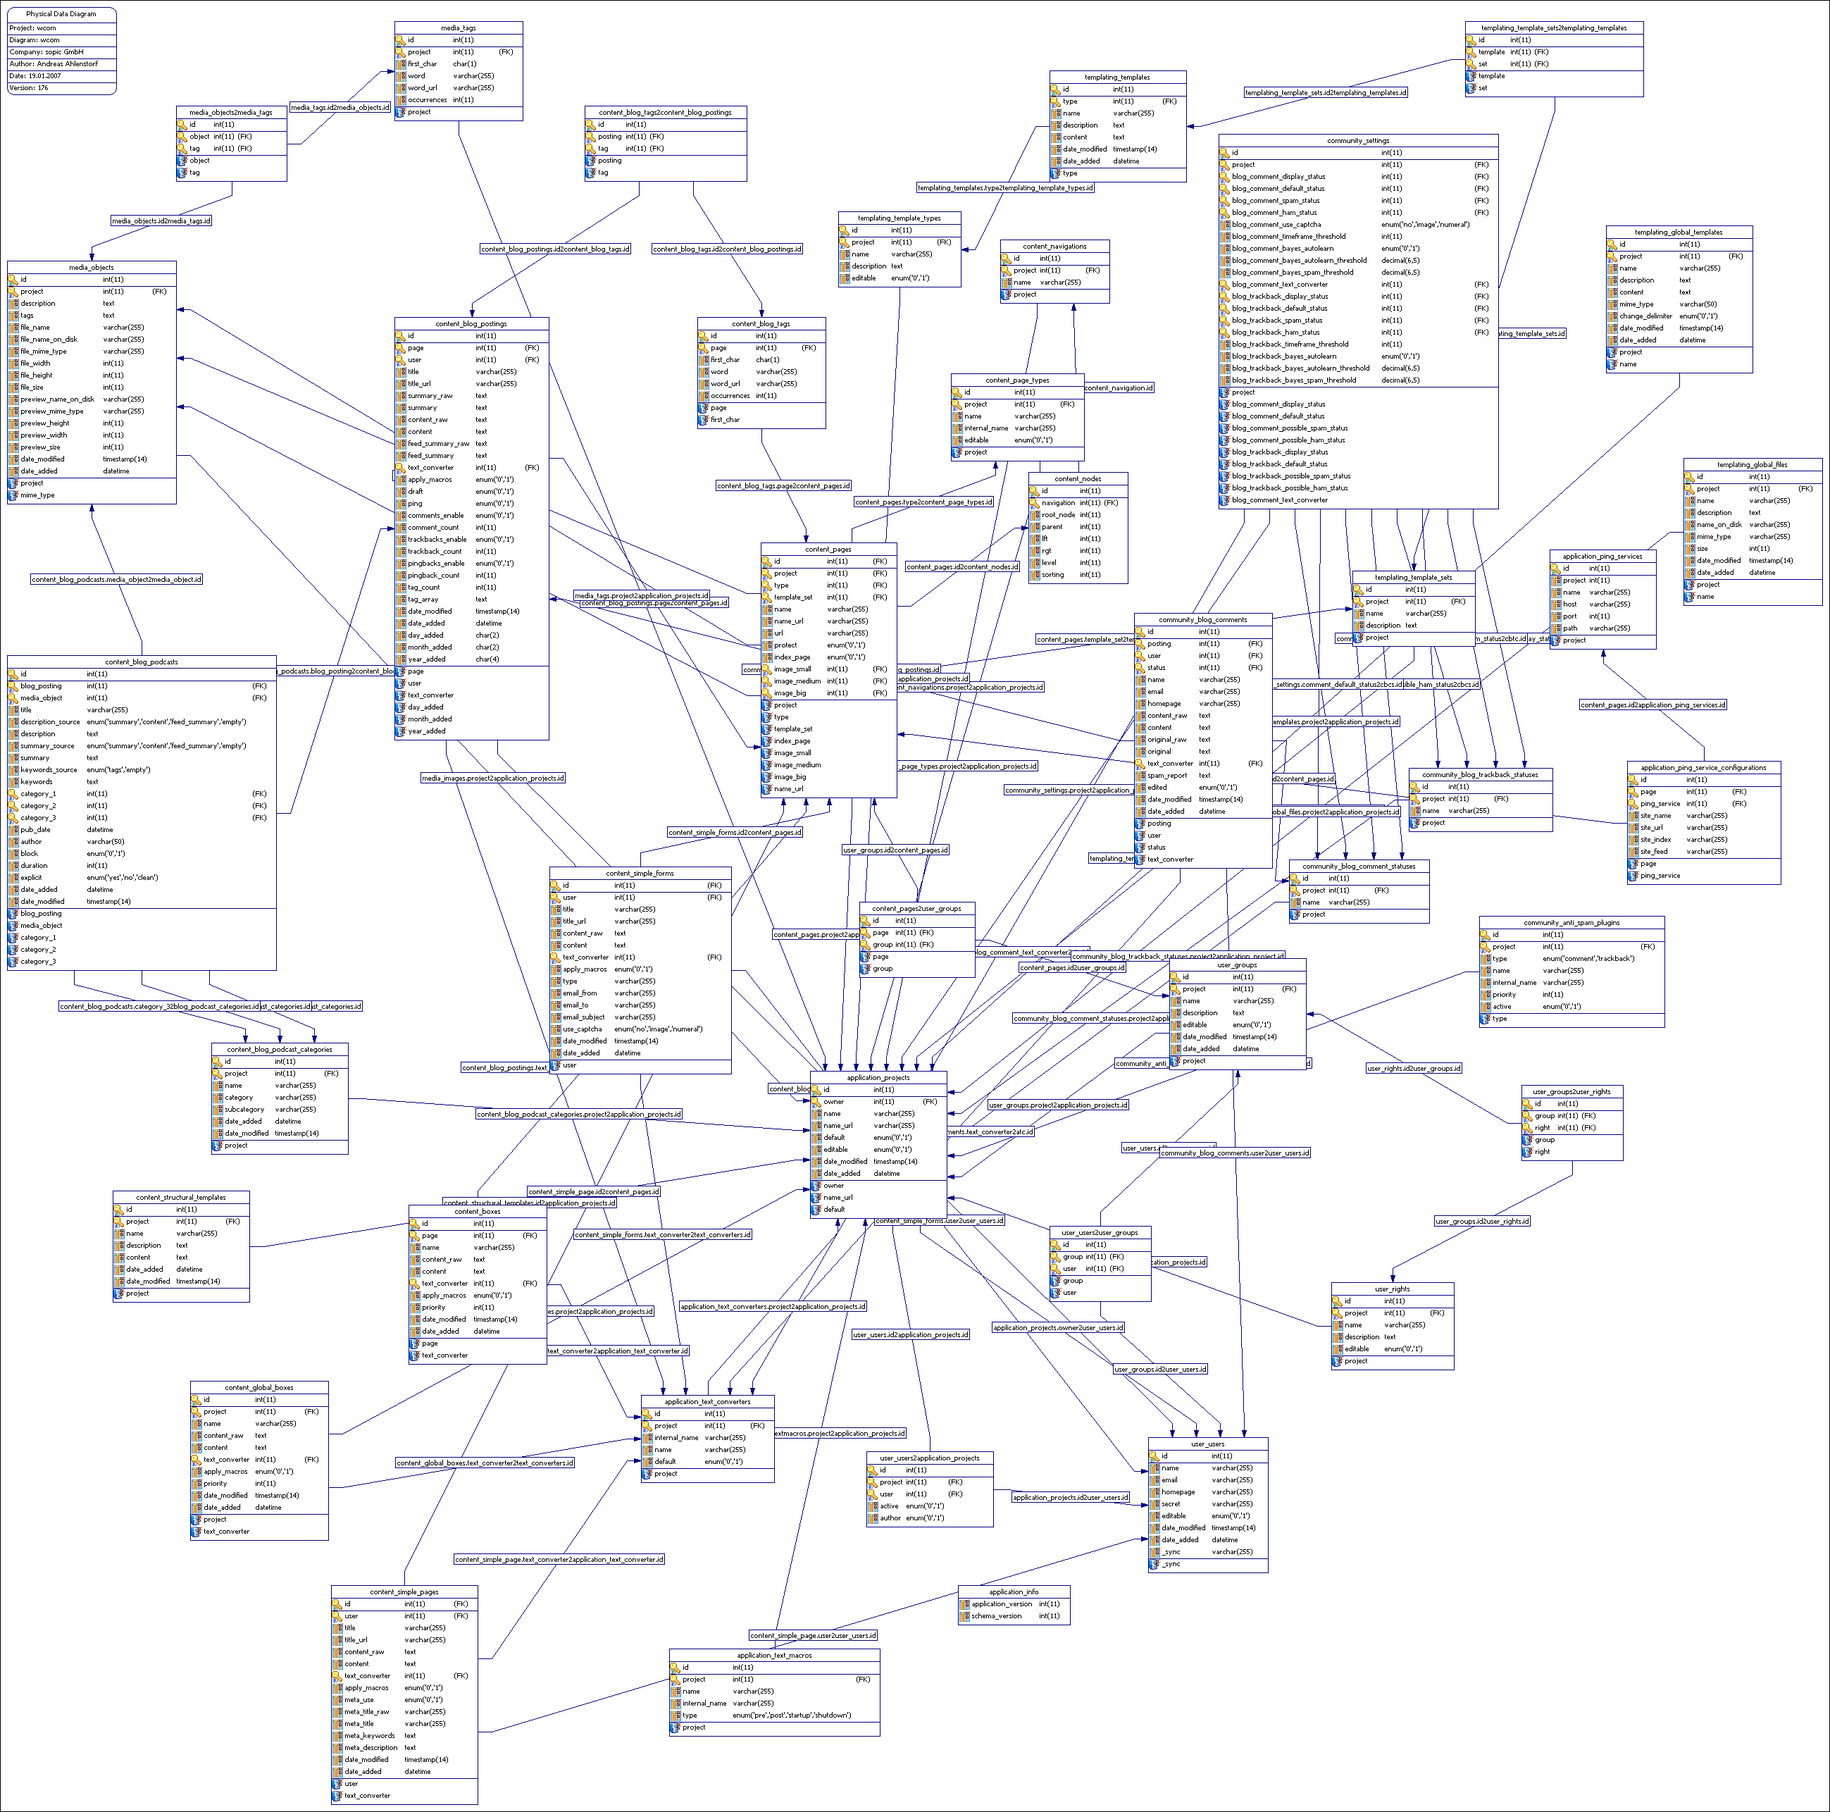
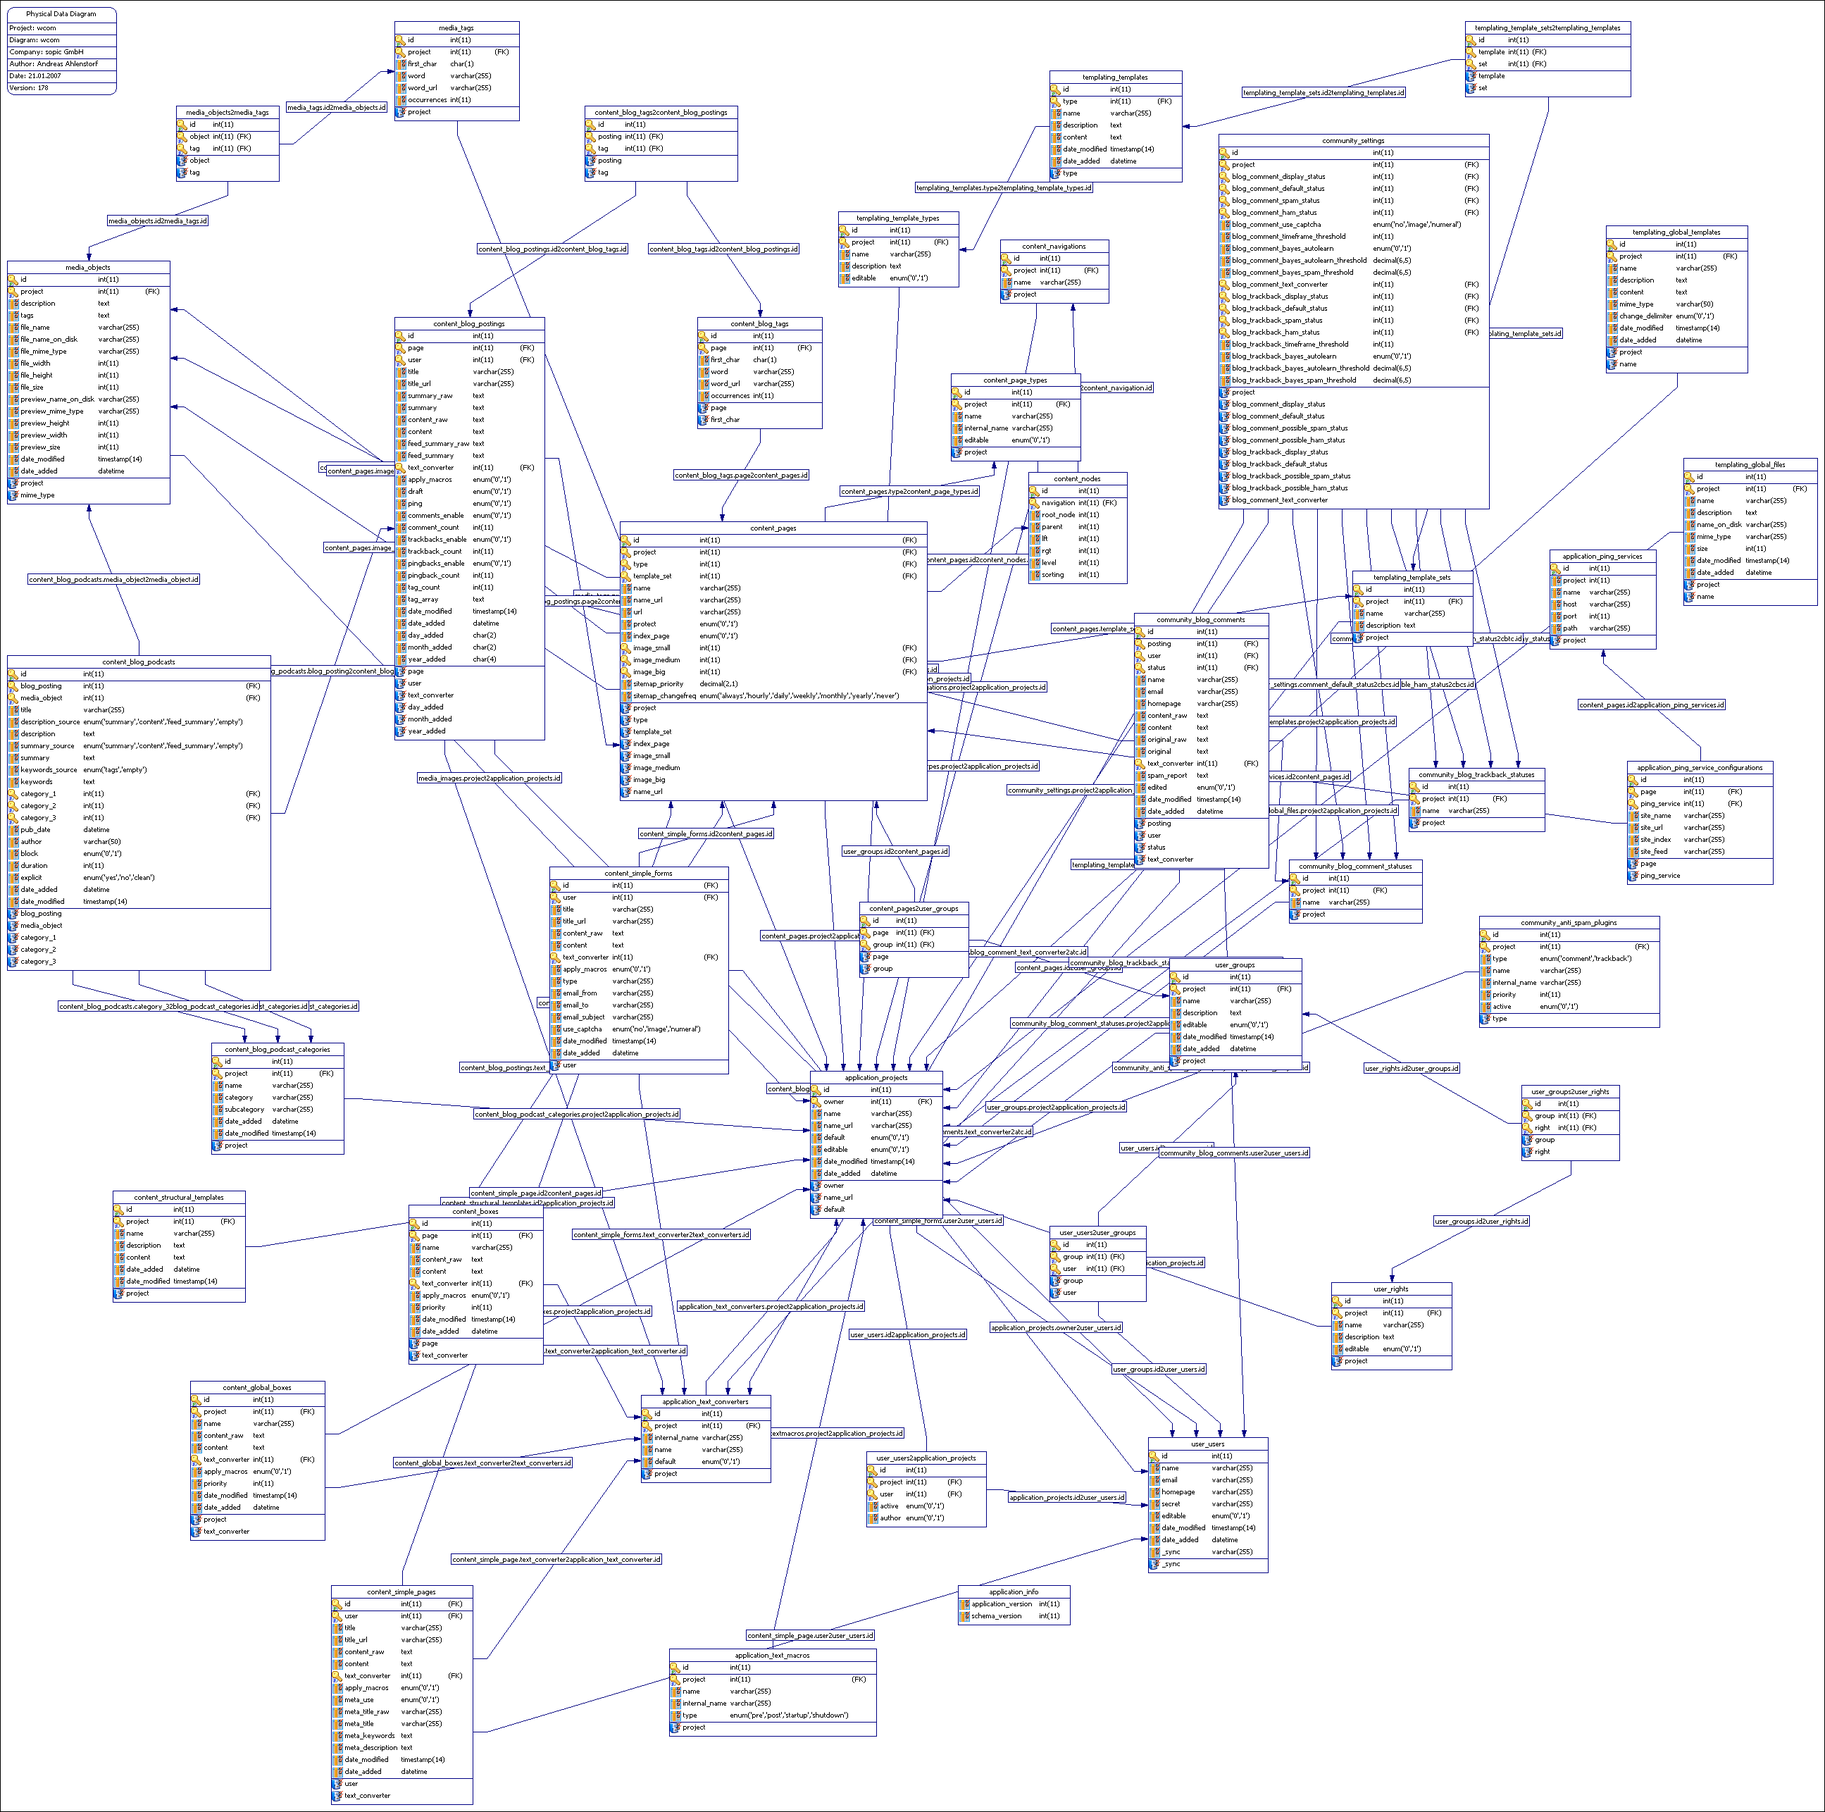
Metadata fields added that are needed for sitemap support (see http://www.sitemaps.org/protocol.html)

diff --git a/welcompose/admin/smarty/templates/content/pages_add.html b/welcompose/admin/smarty/templates/content/pages_add.html
@@ -119,6 +119,12 @@ var response = '{$session.response}';
 <label class="cont h13" for="page_groups"><span class="bez">{$form.groups.label}<span class="iHelp"><a href="#" title="{i18n Show help on this topic}"><img src="../static/img/icons/help.gif" alt="" /></a></span></span>
 {$form.groups.html}</label>
 
+<label class="cont" for="page_sitemap_changefreq"><span class="bez">{$form.sitemap_changefreq.label}<span class="iHelp"><a href="#" title="{i18n Show help on this topic}"><img src="../static/img/icons/help.gif" alt="" /></a></span></span>
+{$form.sitemap_changefreq.html}</label>
+
+<label class="cont" for="page_sitemap_priority"><span class="bez">{$form.sitemap_priority.label}<span class="iHelp"><a href="#" title="{i18n Show help on this topic}"><img src="../static/img/icons/help.gif" alt="" /></a></span></span>
+{$form.sitemap_priority.html}<span class="validate" id="page_sitemap_priority_container"></span></label>
+
 {$form.submit.html}
 
 </fieldset>

diff --git a/welcompose/admin/smarty/templates/content/pages_edit.html b/welcompose/admin/smarty/templates/content/pages_edit.html
@@ -151,6 +151,12 @@ var response = '{$session.response}';
 <label class="cont h13" for="page_groups"><span class="bez">{$form.groups.label}<span class="iHelp"><a href="#" title="{i18n Show help on this topic}"><img src="../static/img/icons/help.gif" alt="" /></a></span></span>
 {$form.groups.html}</label>
 
+<label class="cont" for="page_sitemap_changefreq"><span class="bez">{$form.sitemap_changefreq.label}<span class="iHelp"><a href="#" title="{i18n Show help on this topic}"><img src="../static/img/icons/help.gif" alt="" /></a></span></span>
+{$form.sitemap_changefreq.html}</label>
+
+<label class="cont" for="page_sitemap_priority"><span class="bez">{$form.sitemap_priority.label}<span class="iHelp"><a href="#" title="{i18n Show help on this topic}"><img src="../static/img/icons/help.gif" alt="" /></a></span></span>
+{$form.sitemap_priority.html}<span class="validate" id="page_sitemap_priority_container"></span></label>
+
 {$form.submit.html}
 
 </fieldset>

diff --git a/welcompose/admin/smarty/templates/help/page_page_sitemap_priority.html b/welcompose/admin/smarty/templates/help/page_page_sitemap_priority.html
@@ -1,0 +1,1 @@
+<p class="help">{i18n The priority defines how relevant this page is in comparison to the other pages of your website. A value of 1.0 indicates a very high relevance whereas a value of 0.1 indicates a very low relevance.}</p>

diff --git a/welcompose/admin/smarty/templates/help/page_page_sitemap_changefreq.html b/welcompose/admin/smarty/templates/help/page_page_sitemap_changefreq.html
@@ -1,0 +1,1 @@
+<p class="help">{i18n How often the search engine can expect to find new or changed contents on this page.}</p>

diff --git a/welcompose/admin/content/pages_add.php b/welcompose/admin/content/pages_add.php
@@ -119,9 +119,6 @@ try {
 	}
 	
 	// prepare positions
-	$positions = array();
-	
-	// prepare positions
 	$positions = array(
 		UTILITY_NESTEDSET_CREATE_BEFORE => gettext('Create node above'),
 		UTILITY_NESTEDSET_CREATE_AFTER => gettext('Create node below')
@@ -144,6 +141,17 @@ try {
 	foreach ($GROUP->selectGroups() as $_group) {
 		$groups[(int)$_group['id']] = htmlspecialchars($_group['name']);
 	}
+	
+	// prepare sitemap change frequencies
+	$sitemap_change_frequencies = array(
+		'always' => gettext('always'),
+		'hourly' => gettext('hourly'),
+		'daily' => gettext('daily'),
+		'weekly' => gettext('weekly'),
+		'monthly' => gettext('monthly'),
+		'yearly' => gettext('yearly'),
+		'never' => gettext('never')
+	);
 	
 	// start new HTML_QuickForm
 	$FORM = $BASE->utility->loadQuickForm('page', 'post');
@@ -216,6 +224,22 @@ try {
 	$FORM->applyFilter('groups', 'strip_tags');
 	$FORM->addRule('groups', gettext('One of the chosen groups is out of range'), 'in_array_keys', $groups);
 	
+	// multi select for rights
+	$FORM->addElement('select', 'sitemap_changefreq', gettext('Sitemap change frequency'),
+		$sitemap_change_frequencies, array('id' => 'page_sitemap_changefreq'));
+	$FORM->applyFilter('sitemap_changefreq', 'trim');
+	$FORM->applyFilter('sitemap_changefreq', 'strip_tags');
+	$FORM->addRule('sitemap_changefreq', gettext('Chosen sitemap change frequency is out of range'),
+		'in_array_keys', $sitemap_change_frequencies);
+	
+	// textfield for name
+	$FORM->addElement('text', 'sitemap_priority', gettext('Sitemap Priority'), 
+		array('id' => 'page_sitemap_priority', 'maxlength' => 3, 'class' => 'w300 validate'));
+	$FORM->applyFilter('sitemap_priority', 'trim');
+	$FORM->applyFilter('sitemap_priority', 'strip_tags');
+	$FORM->addRule('sitemap_priority', gettext('Please enter a sitemap priority between 0.1 and 1.0'),
+		'regex', WCOM_REGEX_SITEMAP_PRIORITY);
+	
 	// submit button
 	$FORM->addElement('submit', 'submit', gettext('Add page'),
 		array('class' => 'submit140'));
@@ -224,7 +248,8 @@ try {
 	$FORM->setDefaults(array(
 		'navigation' => Base_Cnc::filterRequest($_REQUEST['navigation'], WCOM_REGEX_NUMERIC),
 		'reference' => Base_Cnc::filterRequest($_REQUEST['reference'], WCOM_REGEX_NUMERIC),
-		'position' => UTILITY_NESTEDSET_CREATE_AFTER
+		'position' => UTILITY_NESTEDSET_CREATE_AFTER,
+		'sitemap_changefreq' => 'monthly'
 	));
 	
 	// validate it
@@ -317,6 +342,8 @@ try {
 			$sqlData['type'] = $FORM->exportValue('type');
 			$sqlData['index_page'] = $FORM->exportValue('index_page');
 			$sqlData['protect'] = $FORM->exportValue('protect');
+			$sqlData['sitemap_changefreq'] = $FORM->exportValue('sitemap_changefreq');
+			$sqlData['sitemap_priority'] = $FORM->exportValue('sitemap_priority');
 			
 			$HELPER->testSqlDataForPearErrors($sqlData);
 			

diff --git a/welcompose/admin/content/pages_edit.php b/welcompose/admin/content/pages_edit.php
@@ -127,6 +127,17 @@ try {
 		$selected_groups[] = (int)$_link['group'];
 	}
 	
+	// prepare sitemap change frequencies
+	$sitemap_change_frequencies = array(
+		'always' => gettext('always'),
+		'hourly' => gettext('hourly'),
+		'daily' => gettext('daily'),
+		'weekly' => gettext('weekly'),
+		'monthly' => gettext('monthly'),
+		'yearly' => gettext('yearly'),
+		'never' => gettext('never')
+	);
+	
 	// start new HTML_QuickForm
 	$FORM = $BASE->utility->loadQuickForm('page', 'post');
 	
@@ -176,6 +187,22 @@ try {
 	$FORM->applyFilter('groups', 'strip_tags');
 	$FORM->addRule('groups', gettext('One of the chosen groups is out of range'), 'in_array_keys', $groups);
 	
+	// multi select for rights
+	$FORM->addElement('select', 'sitemap_changefreq', gettext('Sitemap change frequency'),
+		$sitemap_change_frequencies, array('id' => 'page_sitemap_changefreq'));
+	$FORM->applyFilter('sitemap_changefreq', 'trim');
+	$FORM->applyFilter('sitemap_changefreq', 'strip_tags');
+	$FORM->addRule('sitemap_changefreq', gettext('Chosen sitemap change frequency is out of range'),
+		'in_array_keys', $sitemap_change_frequencies);
+	
+	// textfield for name
+	$FORM->addElement('text', 'sitemap_priority', gettext('Sitemap Priority'), 
+		array('id' => 'page_sitemap_priority', 'maxlength' => 3, 'class' => 'w300 validate'));
+	$FORM->applyFilter('sitemap_priority', 'trim');
+	$FORM->applyFilter('sitemap_priority', 'strip_tags');
+	$FORM->addRule('sitemap_priority', gettext('Please enter a sitemap priority between 0.1 and 1.0'),
+		'regex', WCOM_REGEX_SITEMAP_PRIORITY);
+	
 	// submit button
 	$FORM->addElement('submit', 'submit', gettext('Edit page'),
 		array('class' => 'submit200'));
@@ -187,7 +214,9 @@ try {
 		'template_set' => Base_Cnc::ifsetor($page['template_set'], null),
 		'index_page' => Base_Cnc::ifsetor($page['index_page'], null),
 		'protect' => Base_Cnc::ifsetor($page['protect'], null),
-		'groups' => $selected_groups
+		'groups' => $selected_groups,
+		'sitemap_changefreq' => Base_Cnc::ifsetor($page['sitemap_changefreq'], null),
+		'sitemap_priority' => Base_Cnc::ifsetor($page['sitemap_priority'], null)
 	));
 	
 	// validate it
@@ -265,6 +294,8 @@ try {
 		$sqlData['template_set'] = $FORM->exportValue('template_set');
 		$sqlData['index_page'] = $FORM->exportValue('index_page');
 		$sqlData['protect'] = $FORM->exportValue('protect');
+		$sqlData['sitemap_changefreq'] = $FORM->exportValue('sitemap_changefreq');
+		$sqlData['sitemap_priority'] = $FORM->exportValue('sitemap_priority');
 		
 		// test sql data for pear errors
 		$HELPER->testSqlDataForPearErrors($sqlData);

diff --git a/welcompose/core/content_classes/simpleform.class.php b/welcompose/core/content_classes/simpleform.class.php
@@ -264,7 +264,9 @@ public function selectSimpleForm ($id)
 			`content_pages`.`index_page` AS `form_index_page`,
 			`content_pages`.`image_small` AS `form_image_small`,
 			`content_pages`.`image_medium` AS `form_image_medium`,
-			`content_pages`.`image_big` AS `form_image_big`
+			`content_pages`.`image_big` AS `form_image_big`,
+			`content_pages`.`sitemap_changefreq` AS `sitemap_changefreq`,
+			`content_pages`.`sitemap_priority` AS `sitemap_priority`
 		FROM
 			".WCOM_DB_CONTENT_SIMPLE_FORMS." AS `content_simple_forms`
 		JOIN
@@ -399,7 +401,9 @@ public function selectSimpleForms ($params = array())
 			`content_pages`.`index_page` AS `form_index_page`,
 			`content_pages`.`image_small` AS `form_image_small`,
 			`content_pages`.`image_medium` AS `form_image_medium`,
-			`content_pages`.`image_big` AS `form_image_big`
+			`content_pages`.`image_big` AS `form_image_big`,
+			`content_pages`.`sitemap_changefreq` AS `sitemap_changefreq`,
+			`content_pages`.`sitemap_priority` AS `sitemap_priority`
 		FROM
 			".WCOM_DB_CONTENT_SIMPLE_FORMS." AS `content_simple_forms`
 		JOIN

diff --git a/welcompose/core/content_classes/simplepage.class.php b/welcompose/core/content_classes/simplepage.class.php
@@ -254,7 +254,9 @@ public function selectSimplePage ($id)
 			`content_pages`.`index_page` AS `page_index_page`,
 			`content_pages`.`image_small` AS `page_image_small`,
 			`content_pages`.`image_medium` AS `page_image_medium`,
-			`content_pages`.`image_big` AS `page_image_big`
+			`content_pages`.`image_big` AS `page_image_big`,
+			`content_pages`.`sitemap_changefreq` AS `sitemap_changefreq`,
+			`content_pages`.`sitemap_priority` AS `sitemap_priority`
 		FROM
 			".WCOM_DB_CONTENT_SIMPLE_PAGES." AS `content_simple_pages`
 		JOIN
@@ -389,7 +391,9 @@ public function selectSimplePages ($params = array())
 			`content_pages`.`index_page` AS `page_index_page`,
 			`content_pages`.`image_small` AS `page_image_small`,
 			`content_pages`.`image_medium` AS `page_image_medium`,
-			`content_pages`.`image_big` AS `page_image_big`
+			`content_pages`.`image_big` AS `page_image_big`,
+			`content_pages`.`sitemap_changefreq` AS `sitemap_changefreq`,
+			`content_pages`.`sitemap_priority` AS `sitemap_priority`
 		FROM
 			".WCOM_DB_CONTENT_SIMPLE_PAGES." AS `content_simple_pages`
 		JOIN

diff --git a/welcompose/core/community_classes/blogcomment.class.php b/welcompose/core/community_classes/blogcomment.class.php
@@ -246,7 +246,8 @@ public function selectBlogComment ($id)
 			`content_pages`.`index_page` AS `page_index_page`,
 			`content_pages`.`image_small` AS `page_image_small`,
 			`content_pages`.`image_medium` AS `page_image_medium`,
-			`content_pages`.`image_big` AS `page_image_big`
+			`content_pages`.`sitemap_changefreq` AS `sitemap_changefreq`,
+			`content_pages`.`sitemap_priority` AS `sitemap_priority`
 		FROM
 			".WCOM_DB_COMMUNITY_BLOG_COMMENTS." AS `community_blog_comments`
 		JOIN
@@ -403,7 +404,9 @@ public function selectBlogComments ($params = array())
 			`content_pages`.`index_page` AS `page_index_page`,
 			`content_pages`.`image_small` AS `page_image_small`,
 			`content_pages`.`image_medium` AS `page_image_medium`,
-			`content_pages`.`image_big` AS `page_image_big`
+			`content_pages`.`image_big` AS `page_image_big`,
+			`content_pages`.`sitemap_changefreq` AS `sitemap_changefreq`,
+			`content_pages`.`sitemap_priority` AS `sitemap_priority`
 		FROM
 			".WCOM_DB_COMMUNITY_BLOG_COMMENTS." AS `community_blog_comments`
 		JOIN

diff --git a/welcompose/core/content_classes/blogposting.class.php b/welcompose/core/content_classes/blogposting.class.php
@@ -274,6 +274,8 @@ public function selectBlogPosting ($id)
 			`content_pages`.`image_small` AS `page_image_small`,
 			`content_pages`.`image_medium` AS `page_image_medium`,
 			`content_pages`.`image_big` AS `page_image_big`,
+			`content_pages`.`sitemap_changefreq` AS `sitemap_changefreq`,
+			`content_pages`.`sitemap_priority` AS `sitemap_priority`,
 			`user_users`.`id` AS `user_id`,
 			`user_users`.`name` AS `user_name`,
 			`user_users`.`email` AS `user_email`,
@@ -470,6 +472,8 @@ public function selectBlogPostings ($params = array())
 			`content_pages`.`image_small` AS `page_image_small`,
 			`content_pages`.`image_medium` AS `page_image_medium`,
 			`content_pages`.`image_big` AS `page_image_big`,
+			`content_pages`.`sitemap_changefreq` AS `sitemap_changefreq`,
+			`content_pages`.`sitemap_priority` AS `sitemap_priority`,
 			`user_users`.`id` AS `user_id`,
 			`user_users`.`name` AS `user_name`,
 			`user_users`.`email` AS `user_email`,

diff --git a/welcompose/core/content_classes/page.class.php b/welcompose/core/content_classes/page.class.php
@@ -231,6 +231,8 @@ public function selectPage ($id)
 			`content_pages`.`url` AS `url`,
 			`content_pages`.`protect` AS `protect`,
 			`content_pages`.`index_page` AS `index_page`,
+			`content_pages`.`sitemap_changefreq` AS `sitemap_changefreq`,
+			`content_pages`.`sitemap_priority` AS `sitemap_priority`,
 			`content_page_types`.`id` AS `page_type_id`,
 			`content_page_types`.`name` AS `page_type_name`,
 			`content_page_types`.`internal_name` AS `page_type_internal_name`
@@ -343,6 +345,8 @@ public function selectPages ($params = array())
 			`content_pages`.`url` AS `url`,
 			`content_pages`.`protect` AS `protect`,
 			`content_pages`.`index_page` AS `index_page`,
+			`content_pages`.`sitemap_changefreq` AS `sitemap_changefreq`,
+			`content_pages`.`sitemap_priority` AS `sitemap_priority`,
 			`content_page_types`.`name` AS `page_type_name`,
 			`content_page_types`.`internal_name` AS `page_type_internal_name`
 		FROM

diff --git a/welcompose/admin/validate.js.php b/welcompose/admin/validate.js.php
@@ -75,6 +75,10 @@ try {
 					$reg = WCOM_REGEX_NON_EMPTY;
 					$desc = gettext('Field may not be empty');
 				break;
+			case 'page_sitemap_priority':
+					$reg = WCOM_REGEX_SITEMAP_PRIORITY;
+					$desc = gettext('Value between 0.1 and 1.0');
+				break;
 			case 'page_type_name':
 					$reg = WCOM_REGEX_PAGE_TYPE_NAME;
 					$desc = gettext('Only capitalized prefixed literal string');
